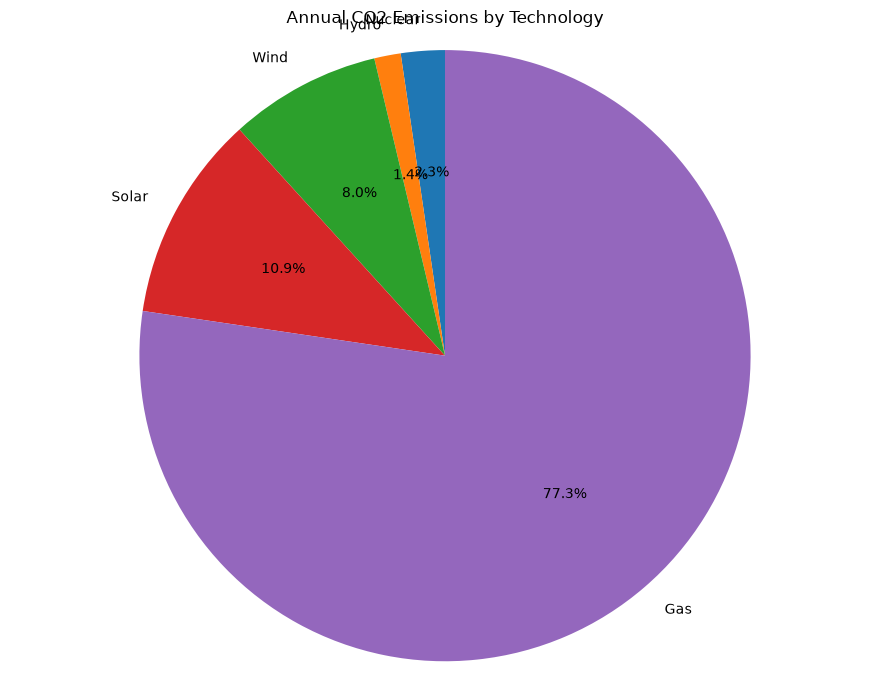
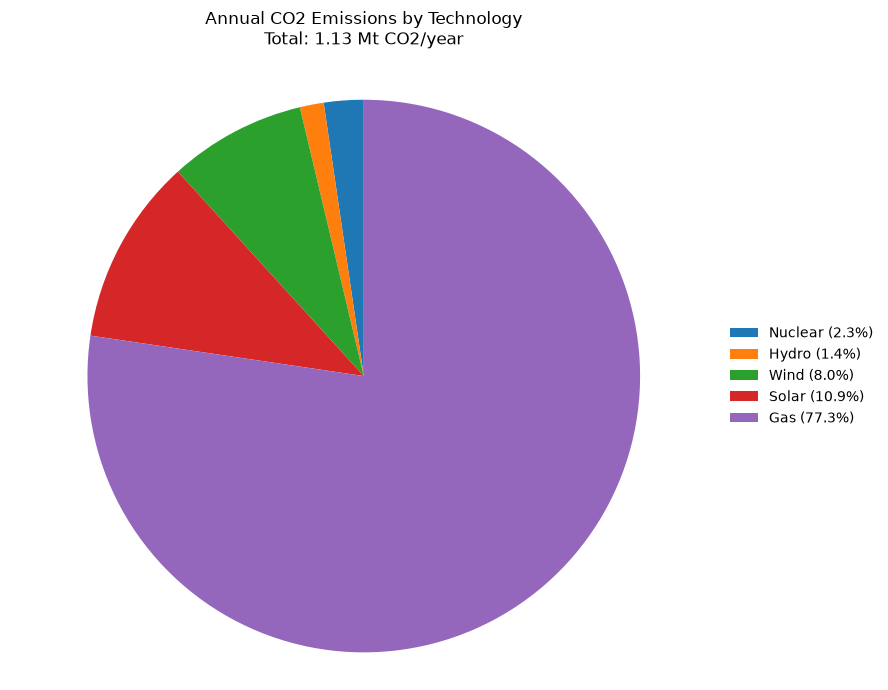
add final plots

Changed region(s): [[0.0912, 0.0, 0.973, 0.9739]]

diff --git a/run.py b/run.py
@@ -18,7 +18,9 @@ from resources import (
 )
 from optimization import optimize_mix, plot_optimization_convergence
 from dispatch import validate_dispatch
-from analysis import co2_per_kwh, cc_stats, spared_pct, plot_pie, plot_co2_pie
+from analysis import (
+    co2_per_kwh, cc_stats, spared_pct, plot_pie, plot_co2_pie, plot_week,
+)
 
 
 # Input data files (as saved in the project folder, see Annex II / V)
@@ -110,5 +112,11 @@ if __name__ == "__main__":
     # and shown interactively; close each window to continue)
     print("  generation mix pie   -> generation_mix.png")
     print("  CO2 emissions pie    -> co2_emissions.png")
+    print("  dispatch week        -> dispatch_week.png")
     plot_pie(df, save_path="generation_mix.png")
     plot_co2_pie(df, EMISSION_FACTORS, save_path="co2_emissions.png")
+
+    # One-week dispatch stackplot (starting hour 0 = first week of the year)
+    fig_week = plot_week(df, demand, start_hour=0)
+    fig_week.savefig("dispatch_week.png", bbox_inches="tight")
+    plt.show()
